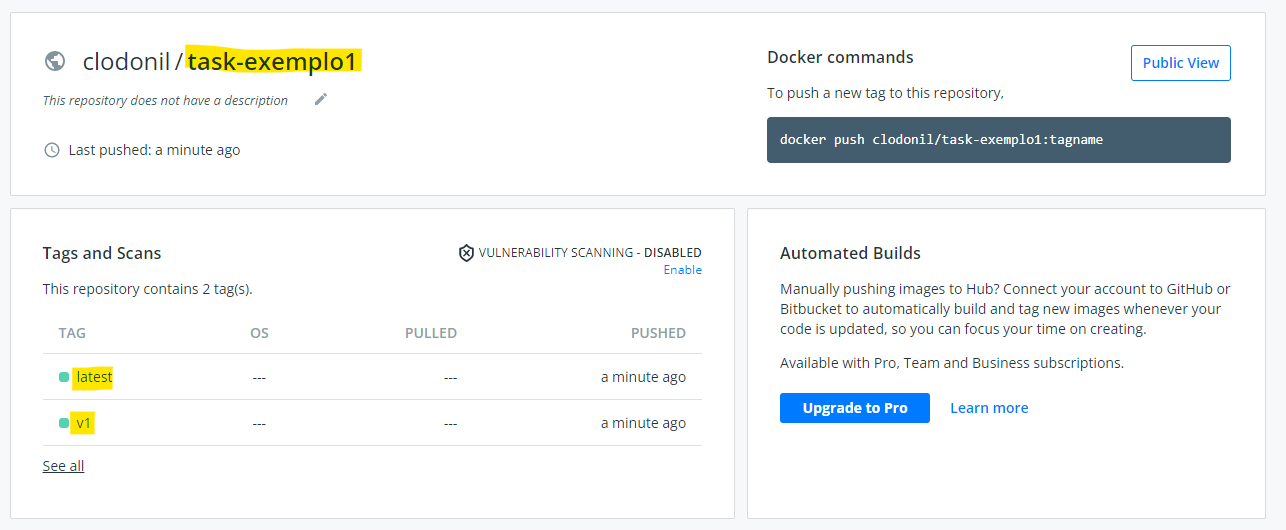
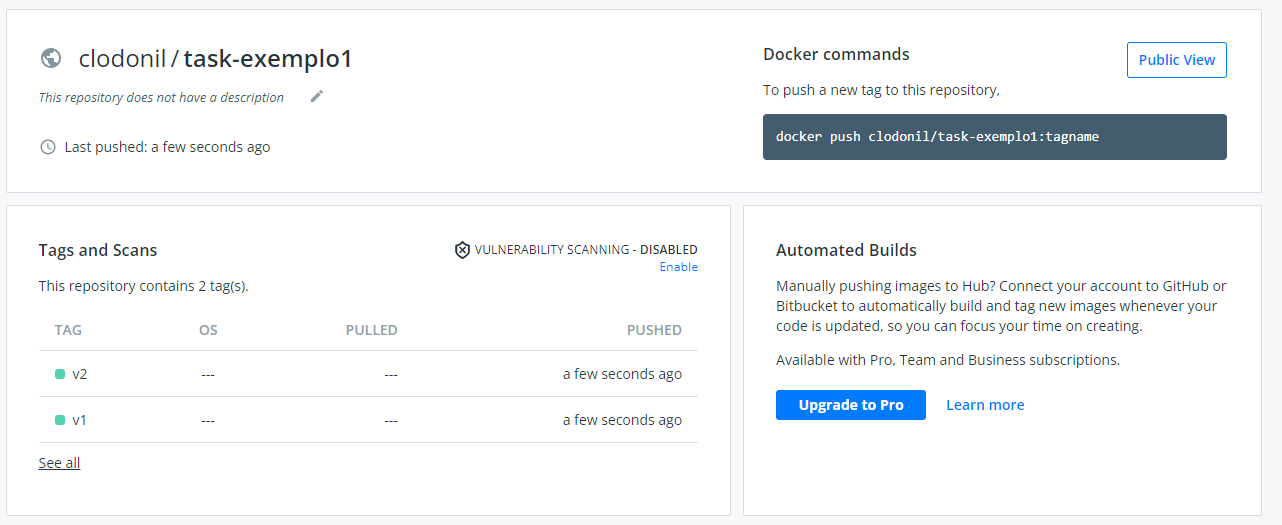
Ajustando o texto do modulo do bundle

diff --git a/bundle.md b/bundle.md
@@ -102,7 +102,7 @@ O `tkn bundle` já transforma o arquivo `yaml` no formato OCI e envia para o reg
 
 Agora vamos subir as tasks para os registry da `docker.io`.
 
-> Altere o nome do repositório no registry. Nesse exemplo o nome do repositório é **clodonil** (index.docker.io/**clodonil**/task-exemplo1:v1)
+> Altere o nome do repositório do registry, para um que você tenha acesso. Nesse exemplo o nome do repositório é **clodonil** (index.docker.io/**clodonil**/task-exemplo1:v1)
 
 Vamos subir as versões 1 e 2.
 
@@ -131,10 +131,10 @@ Com as `bundle` armazenadas, podemos utilizar na `TaskRun` referenciando o bundl
 apiVersion: tekton.dev/v1beta1
 kind: TaskRun
 metadata:
-  name: bundle-task
+  name: bundle-task-v1
 spec:
   taskRef:
-    name: task1
+    name: task-exemplo1
     bundle: index.docker.io/clodonil/task-exemplo1:v1
 ```
 
@@ -167,25 +167,25 @@ spec:
 Com a pipeline criada vamos subir para o `Tekton`:
 
 ```bash
-kubectl apply -f src/bundle/pipeline-exemplo1.yaml
+kubectl apply -f src/bundle/pipeline-exemplo1-v1.yaml
 ```
 E para executar a pipeline, podemos utilizar o comando `tkn`:
 
 ```bash
-tkn pipeline start pipeline-exemplo1 --showlog
+tkn pipeline start pipeline-exemplo1-v1 --showlog
 ```
 
-Também podemos subir a `Pipeline` para o registry e versionar. Antes de fazermos isso vamos deletar a `pipeline-exemplo1` criando anteriormente para não gerar confusão. Queremos que o `Tekton` abaixe a pipeline durante a execução.
+Também podemos subir a `Pipeline` para o registry e versionar. Antes de fazermos isso vamos deletar a `pipeline-exemplo1` criando anteriormente para não gerar confusão. Queremos que o `Tekton` abaixe a pipeline durante a execução e não tenha nenhum template armazenado no cluster.
 
 Deletando a pipeline criado no `Tekton`.
 
 ```bash
-kubectl delete -f src/bundle/pipeline-exemplo1.yaml
+kubectl delete -f src/bundle/pipeline-exemplo1-v1.yaml
 ```
 Agora que a pipeline foi deletada, vamos subir a pipeline para o registry. O comando é similar o que fizemos alteriormente com as `Tasks`.
 
 ```bash
-tkn bundle push index.docker.io/clodonil/pipeline-exemplo1:v1 -f pipeline-exemplo1.yaml
+tkn bundle push index.docker.io/clodonil/pipeline-exemplo1:v1 -f src/bundle/pipeline-exemplo1-v1.yaml
 ```
 
 Podemos verificar no `docker.io` que os artefatos foram registrados.
@@ -193,18 +193,25 @@ Podemos verificar no `docker.io` que os artefatos foram registrados.
 ![template](img/image27.png)
 
 
-Agora podemos construir uma `PipelineRun`[src/bundle/pipelinerun-bundle-exemplo1.yaml](./src/bundle/pipelinerun-bundle-exemplo1.yaml) referenciando a pipeline no registry e assim executar a pipeline.
+Agora podemos construir uma `PipelineRun`[src/bundle/pipelinerun-bundle-exemplo1-v1.yaml](./src/bundle/pipelinerun-bundle-exemplo1-v1.yaml) referenciando a pipeline no registry e assim executar a pipeline.
 
 ```yaml
 apiVersion: tekton.dev/v1beta1
 kind: PipelineRun
 metadata:
-  name: pipelinerun-bundle-exemplo1-run1
+  name: pipelinerun-bundle-exemplo1-v1
 spec:
   pipelineRef:
     name: pipeline-exemplo1
     bundle: docker.io/clodonil/pipeline-exemplo1:v1
 ```
+
+E para executar a pipeline na versão v1:
+
+```bash
+kubectl apply -f src/bundle/pipelinerun-bundle-exemplo1-v1.yaml
+```
+
 Na figura abaixo podemos verificar a execução da pipeline no `Tekton`.
 
 ![template](img/image26.png)
@@ -215,17 +222,46 @@ Na figura abaixo podemos verificar a execução da pipeline no `Tekton`.
 
 Agora que entendemos o conceito dos `Bundle` e construimos alguns exemplos, vamos criar para o projeto de `Pipeline` que estamos desenvolvendo.
 
-Como as tasks já estão cria
+Como as `Tasks` já estão criadas, vamos apenas subir para o registry. Vamos utilizar as versões como `tags` tais como `v1.0`, `v2.0`. E sempre a ultima versão também receba a tag `latest`.
 
+Dessa forma ao atualizarmos uma `Tasks` todas as execuções de pipeline são atualizadas automaticamente. 
+
+O sintaxe do nome que estamos utilizando é:
+
+* <nome_template>_<taks>:tag
+
+Exemplo:
+* micrservice-api_source:v1
+
+Vamos para a execução:
 
 ```bash
 tkn bundle push index.docker.io/clodonil/microservice-api_tasks_source:v1 -f proj/tasks/Source/task-source.yaml
+tkn bundle push index.docker.io/clodonil/microservice-api_tasks_source:latest -f proj/tasks/Source/task-source.yaml
+
+
 tkn bundle push index.docker.io/clodonil/microservice-api_tasks_build:v1 -f proj/tasks/Build/task-build.yaml
+tkn bundle push index.docker.io/clodonil/microservice-api_tasks_build:latest -f proj/tasks/Build/task-build.yaml
+
+
 tkn bundle push index.docker.io/clodonil/microservice-api_tasks_qa:v1 -f proj/tasks/QA/task-qa.yaml
+tkn bundle push index.docker.io/clodonil/microservice-api_tasks_qa:latest -f proj/tasks/QA/task-qa.yaml
+
+
 tkn bundle push index.docker.io/clodonil/microservice-api_tasks_security:v1 -f proj/tasks/Security/task-security.yaml
+tkn bundle push index.docker.io/clodonil/microservice-api_tasks_security:latest -f proj/tasks/Security/task-security.yaml
+
+
 tkn bundle push index.docker.io/clodonil/microservice-api_tasks_tests:v1 -f proj/tasks/Tests/task-tests.yaml
+tkn bundle push index.docker.io/clodonil/microservice-api_tasks_tests:latest -f proj/tasks/Tests/task-tests.yaml
+
+
 tkn bundle push index.docker.io/clodonil/microservice-api_tasks_deploy:v1 -f proj/tasks/Deploy/task-deploy.yaml
+tkn bundle push index.docker.io/clodonil/microservice-api_tasks_deploy:latest -f proj/tasks/Deploy/task-deploy.yaml
+
+
 tkn bundle push index.docker.io/clodonil/microservice-api_tasks_finally:v1 -f proj/tasks/Finally/task-finally.yaml
+tkn bundle push index.docker.io/clodonil/microservice-api_tasks_finally:latest -f proj/tasks/Finally/task-finally.yaml
 ```
 
 Agora também vamos criar a pipeline como `Bundle`:
